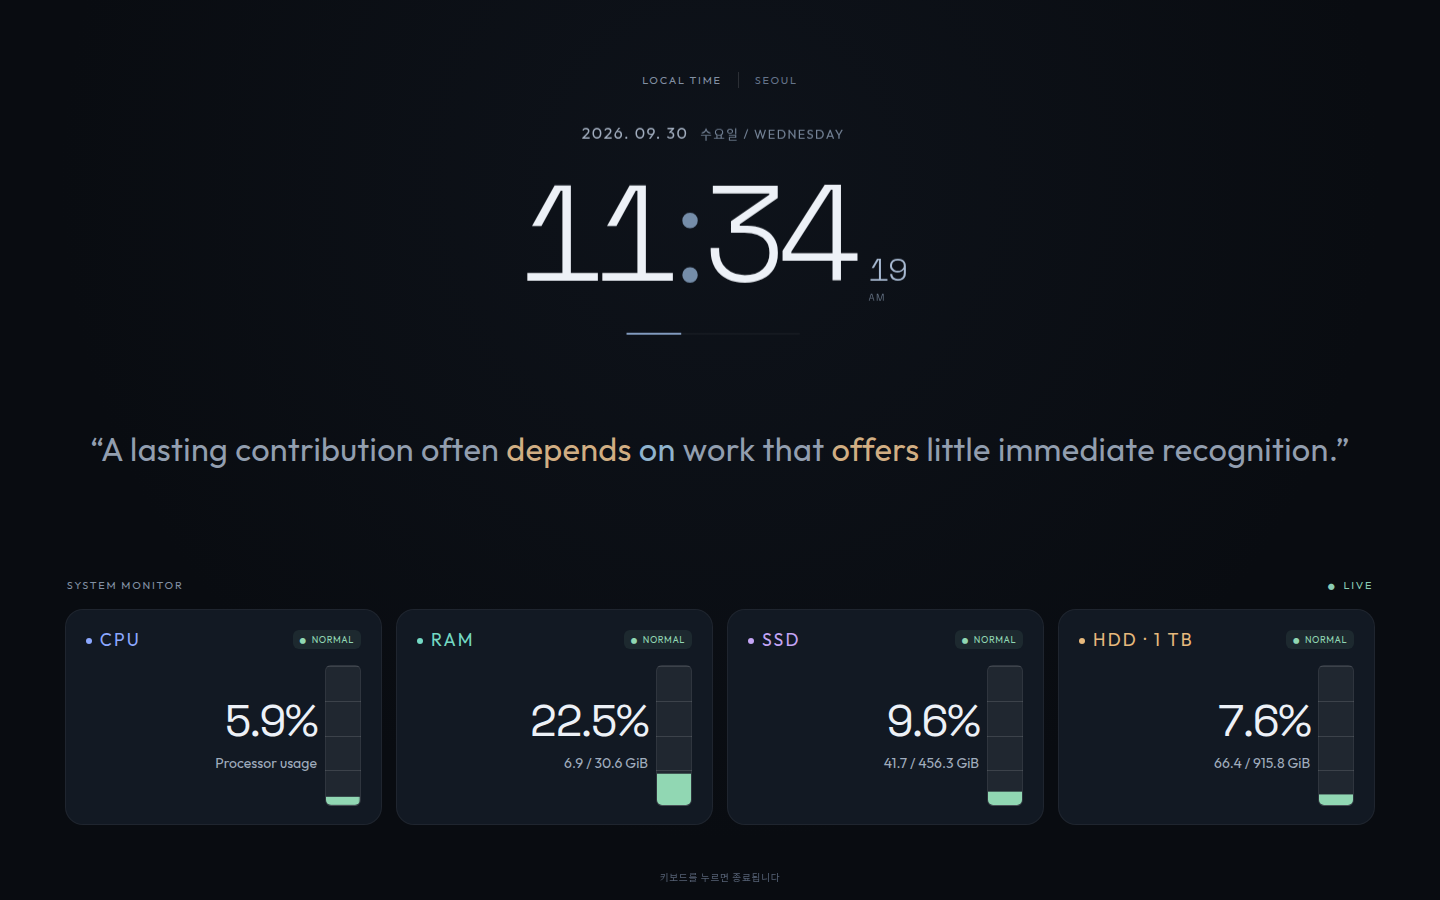
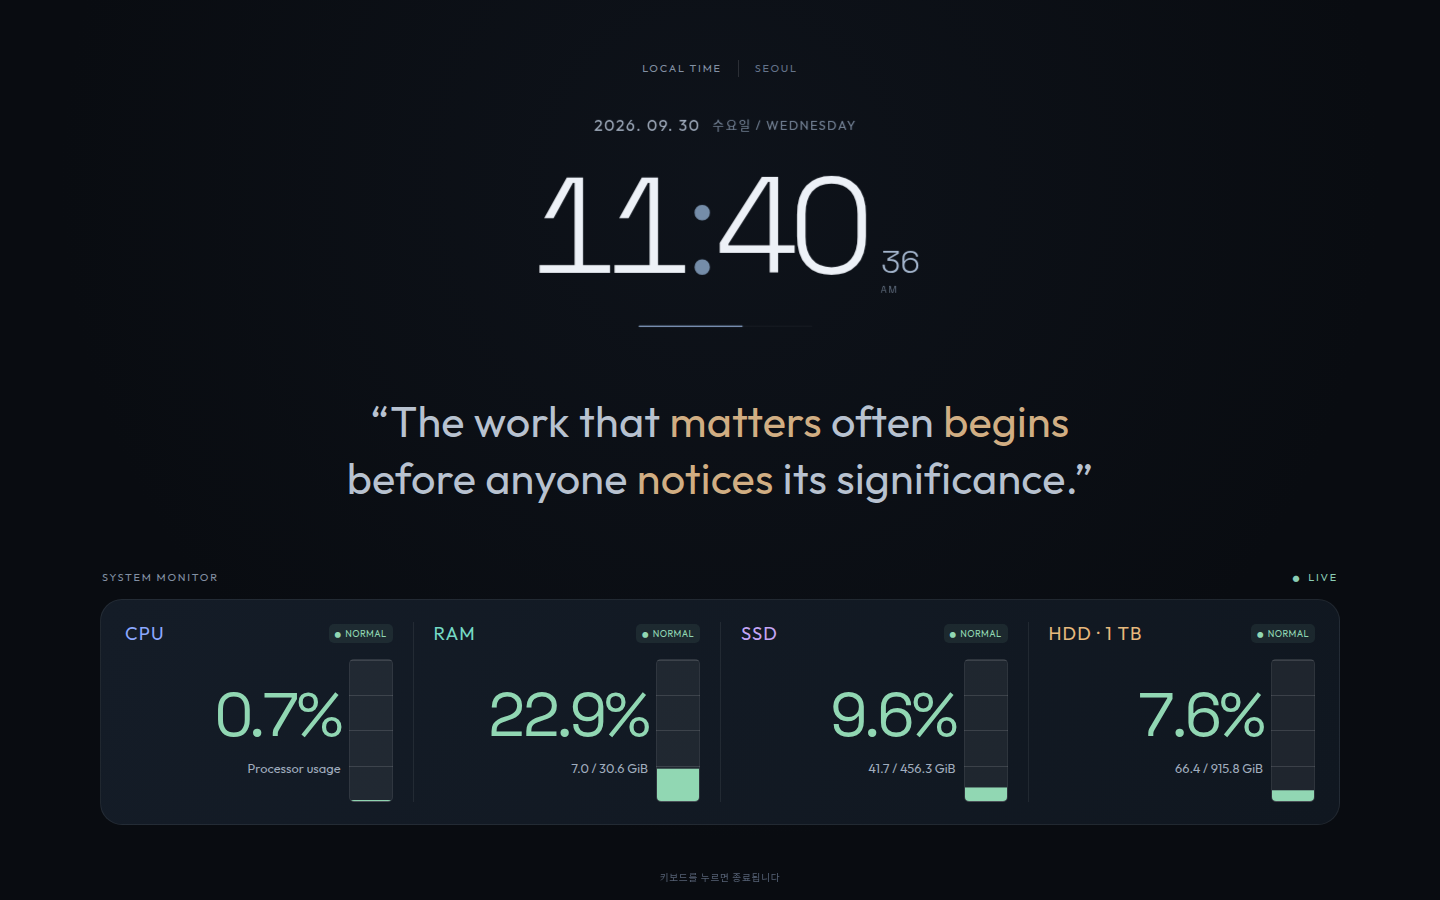
Redesign monitoring panel and balance quotes across two lines

diff --git a/src/style.css b/src/style.css
@@ -5,161 +5,144 @@ body {
   background: radial-gradient(ellipse at 50% 20%, #18202d55, transparent 65%), #090c11;
 }
 .screen-grid {
-  width: 100%; max-width: 1660px; height: 100%; margin: 0 auto;
+  width: 100%; max-width: 1600px; height: 100%; margin: 0 auto;
   display: grid; grid-template-rows: minmax(0, 1fr) auto minmax(0, 1fr);
-  gap: clamp(24px, 4vh, 48px);
-  padding: clamp(28px, 6vh, 72px) clamp(24px, 4.5vw, 76px) clamp(28px, 6vh, 72px);
+  gap: clamp(20px, 3vh, 36px);
+  padding: clamp(28px, 6vh, 72px) clamp(24px, 5vw, 80px);
 }
 .panel { min-width: 0; min-height: 0; }
 .panel-heading {
   display: flex; justify-content: space-between; align-items: center; gap: 12px;
-  color: #8290a3; font-size: 0.68rem; font-weight: 400;
-  letter-spacing: 0.16em; line-height: 1.5;
+  color: #8290a3; font-size: 0.68rem; font-weight: 400; letter-spacing: 0.16em; line-height: 1.5;
 }
 .panel-heading > :last-child { white-space: nowrap; color: #65748a; }
 .clock-panel { display: flex; flex-direction: column; justify-content: center; }
 .clock-panel .panel-heading { justify-content: center; gap: 16px; margin-bottom: 20px; }
 .clock-panel .panel-heading > :last-child { border-left: 1px solid #ffffff20; padding-left: 16px; }
-.clock-content {
-  min-width: 0; min-height: 0; padding: 18px 12px;
-  display: flex; justify-content: center; align-items: center; text-align: center;
-}
+.clock-content { min-width: 0; min-height: 0; padding: 18px 12px; display: flex; justify-content: center; align-items: center; text-align: center; }
 .clock-display { max-width: 100%; transition: transform 2.5s ease; }
 .date-row {
   display: flex; flex-wrap: wrap; justify-content: center; align-items: center; gap: 12px;
-  color: #a3afc0; font-size: clamp(0.75rem, 1.1vw, 1rem);
-  letter-spacing: 0.09em; margin-bottom: 24px;
+  color: #a3afc0; font-size: clamp(0.75rem, 1.1vw, 1rem); letter-spacing: 0.09em; margin-bottom: 24px;
 }
 .day-badge { color: #78879b; font-size: 0.8em; white-space: nowrap; }
 .time-row {
-  display: flex; justify-content: center; align-items: baseline;
-  font-family: 'Space Grotesk', monospace;
-  font-size: clamp(3.5rem, min(10vw, 15dvh), 8.5rem);
-  font-weight: 300; font-variant-numeric: tabular-nums;
+  display: flex; justify-content: center; align-items: baseline; font-family: 'Space Grotesk', monospace;
+  font-size: clamp(3.5rem, min(10vw, 15dvh), 8.5rem); font-weight: 300; font-variant-numeric: tabular-nums;
   line-height: 1; letter-spacing: -0.065em; white-space: nowrap;
 }
 .colon { margin: 0 0.04em; color: #758da9; }
-.seconds-wrap {
-  display: inline-flex; flex-direction: column; align-items: flex-start;
-  margin-left: 0.5em; font-size: 0.24em; color: #a8bad2; letter-spacing: -0.02em;
-}
+.seconds-wrap { display: inline-flex; flex-direction: column; align-items: flex-start; margin-left: 0.5em; font-size: 0.24em; color: #a8bad2; letter-spacing: -0.02em; }
 .ampm { font-size: 0.3em; margin-top: 0.7em; letter-spacing: 0.15em; color: #78879b; }
-.progress-bar-container {
-  width: min(220px, 45%); height: 2px; margin: 30px auto 0;
-  border-radius: 2px; overflow: hidden; background: #ffffff09;
-}
+.progress-bar-container { width: min(220px, 45%); height: 2px; margin: 30px auto 0; border-radius: 2px; overflow: hidden; background: #ffffff09; }
 .progress-bar { height: 100%; background: #829bbf; width: 0; transition: width 1s linear; }
-.monitor-panel { align-self: end; }
-.monitor-panel .panel-heading { margin: 0 2px 16px; }
-#liveLabel.live { color: #8acdb5; }
-#liveLabel.live::before { content: '●'; margin-right: 7px; font-size: 0.65em; }
-.resource-list { display: grid; grid-template-columns: repeat(4, minmax(0, 1fr)); gap: 14px; }
-.resource-card {
-  --severity: #91d7b3;
-  min-width: 0; display: grid; grid-template-columns: minmax(0, 1fr) 36px;
-  grid-template-rows: auto minmax(0, 1fr); align-items: center; gap: 14px 8px; height: clamp(196px, 24vh, 228px); padding: 18px 20px;
-  border: 1px solid #ffffff0e; border-radius: 18px; background: #121923;
-}
-.resource-card[data-level="warning"] { --severity: #edd08c; border-color: #edd08c35; }
-.resource-card[data-level="high"] { --severity: #efa3a3; border-color: #efa3a345; background: #21191e; }
-.resource-card[data-level="offline"] { --severity: #7a879b; }
-.resource-heading { grid-column: 1 / -1; grid-row: 1; display: flex; justify-content: space-between; align-items: center; gap: 8px; }
-.resource-readout { grid-column: 1; grid-row: 2; min-width: 0; text-align: right; }
-.resource-primary { display: flex; align-items: baseline; justify-content: flex-end; flex-wrap: wrap; gap: 8px; }
-.resource-label { color: #8ca8ff; font-size: 1.1rem; font-weight: 500; letter-spacing: 0.12em; white-space: nowrap; }
-.resource-label::before { content: ''; display: inline-block; width: 6px; height: 6px; margin-right: 8px; border-radius: 50%; background: currentColor; vertical-align: 2px; }
-.resource-ram .resource-label { color: #74d9c4; }
-.resource-disk .resource-label { color: #c4a5f5; }
-.resource-hdd .resource-label { color: #e7b97d; }
-.resource-value {
-  color: #edf1f7; font-family: 'Space Grotesk', monospace;
-  font-size: clamp(2rem, 3.2vw, 2.75rem); font-variant-numeric: tabular-nums;
-  line-height: 1.1; letter-spacing: -0.04em;
-}
-.resource-secondary { display: flex; flex-direction: column; align-items: flex-end; gap: 8px; margin-top: 8px; }
-.resource-detail { color: #a0adbe; font-size: 0.875rem; line-height: 1.5; white-space: nowrap; }
-.resource-level { color: var(--severity); font-size: 0.58rem; letter-spacing: 0.06em; white-space: nowrap; padding: 4px 7px; border-radius: 6px; background: color-mix(in srgb, var(--severity) 9%, transparent); }
-.resource-card:is([data-level="warning"], [data-level="high"]) .resource-value { color: var(--severity); }
-.resource-level::before { content: '●'; margin-right: 5px; font-size: 0.7em; }
-.resource-track {
-  grid-column: 2; grid-row: 2; width: 36px; height: 100%; border: 1px solid #ffffff12; border-radius: 6px; overflow: hidden;
-  background: repeating-linear-gradient(to top, transparent 0, transparent calc(25% - 1px), #ffffff20 calc(25% - 1px), #ffffff20 25%), #ffffff10;
-}
-.resource-fill {
-  height: 100%; width: 100%; background: var(--severity);
-  transform: scaleY(var(--usage, 0)); transform-origin: bottom; transition: transform 1s ease;
-}
-.resource-status { min-height: 1em; color: #98a5b7; font-size: 0.7rem; margin-top: 10px; }
-.guide-hint { position: fixed; bottom: 16px; left: 0; width: 100%; text-align: center; font-size: 0.6rem; letter-spacing: 0.08em; color: #566276; }
 .quote-content {
-  height: 80px; display: flex; align-items: center; justify-content: center;
-  padding: 8px 12px;
+  height: 144px; max-width: 1160px; margin: 0 auto; padding: 12px 24px;
+  display: flex; align-items: center; justify-content: center;
 }
-.quote { width: 100%; min-width: 0; color: #929eaf; text-align: center; font-size: clamp(1.2rem, 2.5vw, 2.4rem); font-weight: 400; line-height: 1.4; letter-spacing: 0.01em; }
+.quote { width: 100%; min-width: 0; color: #b8c2d0; text-align: center; font-size: clamp(1.6rem, 3vw, 2.8rem); font-weight: 400; line-height: 1.32; letter-spacing: 0.005em; }
 .quote-line { display: block; white-space: nowrap; overflow: hidden; text-overflow: ellipsis; }
 .quote-word { font-weight: 400; }
 .auxiliary { color: #9dc4a8; }
 .main-verb { color: #d1ae83; }
 .connector { color: #b1a3ce; }
 .preposition { color: #8fb3cd; }
+.monitor-panel { align-self: end; width: 100%; max-width: 1240px; margin: 0 auto; }
+.monitor-panel .panel-heading { margin: 0 2px 14px; }
+#liveLabel.live { color: #8acdb5; }
+#liveLabel.live::before { content: '●'; margin-right: 7px; font-size: 0.65em; }
+.resource-list {
+  display: grid; grid-template-columns: repeat(4, minmax(0, 1fr));
+  padding: 22px 4px; border: 1px solid #ffffff12; border-radius: 22px;
+  background: linear-gradient(120deg, #141c27, #101720);
+}
+.resource-card {
+  --severity: #91d7b3;
+  min-width: 0; display: grid; grid-template-columns: minmax(0, 1fr) 44px;
+  grid-template-rows: auto minmax(0, 1fr); align-items: center;
+  height: clamp(168px, 20vh, 184px); padding: 0 20px; gap: 14px 8px;
+}
+.resource-card + .resource-card { border-left: 1px solid #ffffff12; }
+.resource-card[data-level="warning"] { --severity: #edd08c; }
+.resource-card[data-level="high"] { --severity: #efa3a3; }
+.resource-card[data-level="offline"] { --severity: #7a879b; }
+.resource-heading { grid-column: 1 / -1; grid-row: 1; display: flex; justify-content: space-between; align-items: center; gap: 8px; }
+.resource-label { color: #8ca8ff; font-size: 1.15rem; font-weight: 500; letter-spacing: 0.06em; white-space: nowrap; }
+.resource-ram .resource-label { color: #74d9c4; }
+.resource-disk .resource-label { color: #c4a5f5; }
+.resource-hdd .resource-label { color: #e7b97d; }
+.resource-level { color: var(--severity); font-size: 0.58rem; letter-spacing: 0.04em; white-space: nowrap; padding: 4px 6px; border-radius: 5px; background: color-mix(in srgb, var(--severity) 9%, transparent); }
+.resource-level::before { content: '●'; margin-right: 4px; font-size: 0.7em; }
+.resource-readout { grid-column: 1; grid-row: 2; min-width: 0; text-align: right; }
+.resource-primary { display: flex; justify-content: flex-end; align-items: baseline; }
+.resource-value { color: var(--severity); font-family: 'Space Grotesk', monospace; font-size: clamp(2.4rem, 4.4vw, 3.8rem); font-variant-numeric: tabular-nums; line-height: 1.1; letter-spacing: -0.05em; }
+.resource-card:is([data-level="warning"], [data-level="high"]) .resource-value { color: var(--severity); }
+.resource-secondary { display: flex; flex-direction: column; align-items: flex-end; margin-top: 10px; }
+.resource-detail { color: #a0adbe; font-size: 0.8rem; line-height: 1.5; white-space: nowrap; }
+.resource-track {
+  grid-column: 2; grid-row: 2; width: 44px; height: 100%; border: 1px solid #ffffff12; border-radius: 5px; overflow: hidden;
+  background: repeating-linear-gradient(to top, transparent 0, transparent calc(25% - 1px), #ffffff20 calc(25% - 1px), #ffffff20 25%), #ffffff10;
+}
+.resource-fill { height: 100%; width: 100%; background: var(--severity); transform: scaleY(var(--usage, 0)); transform-origin: bottom; transition: transform 1s ease; }
+.resource-status { min-height: 1em; color: #98a5b7; font-size: 0.7rem; margin-top: 10px; }
+.guide-hint { position: fixed; bottom: 16px; left: 0; width: 100%; text-align: center; font-size: 0.6rem; letter-spacing: 0.08em; color: #566276; }
 @media (max-width: 1100px) {
-  .resource-card { padding: 20px 16px; gap: 12px 8px; grid-template-columns: minmax(0, 1fr) 24px; }
-  .resource-track { width: 24px; }
-  .resource-label { font-size: 0.9rem; letter-spacing: 0.06em; }
-  .resource-value { font-size: 1.8rem; }
-  .resource-detail { font-size: 0.72rem; }
+  .resource-card { padding: 0 16px; grid-template-columns: minmax(0, 1fr) 26px; gap: 16px 8px; }
+  .resource-track { width: 26px; }
+  .resource-label { font-size: 0.95rem; }
+  .resource-value { font-size: 2rem; }
+  .resource-detail { font-size: 0.7rem; }
 }
 @media (max-width: 900px) {
   .screen-grid { grid-template-rows: minmax(0, 1fr) auto auto; gap: 16px; padding: 24px 28px 44px; }
-  .resource-list { grid-template-columns: repeat(2, minmax(0, 1fr)); gap: 12px; }
-  .resource-card { height: clamp(132px, 19vh, 160px); padding: 12px 18px; row-gap: 8px; }
-  .resource-primary { flex-wrap: nowrap; }
-  .resource-secondary { gap: 6px; margin-top: 8px; }
-  .resource-detail { font-size: 0.8rem; }
   .clock-panel .panel-heading { display: none; }
-  .clock-content { padding: 8px 12px; }
-  .time-row { font-size: clamp(3.5rem, min(10vw, 10dvh), 8.5rem); }
-  .date-row { margin-bottom: 8px; font-size: 0.7rem; }
-  .progress-bar-container { margin-top: 10px; }
-  .quote-content { height: 56px; }
+  .clock-content { padding: 4px 12px; }
+  .time-row { font-size: clamp(2.5rem, min(10vw, 7dvh), 6rem); }
+  .date-row { margin-bottom: 6px; font-size: 0.7rem; }
+  .progress-bar-container { margin-top: 8px; }
+  .quote-content { height: 104px; padding: 10px 16px; }
+  .quote { font-size: clamp(1.2rem, 3.5vw, 2rem); }
+  .resource-list { grid-template-columns: repeat(2, minmax(0, 1fr)); padding: 0; }
+  .resource-card { height: 128px; padding: 14px 18px; gap: 10px 8px; }
+  .resource-card:nth-child(odd) { border-left: 0; }
+  .resource-card:nth-child(n+3) { border-top: 1px solid #ffffff12; }
+  .resource-value { font-size: 2rem; }
+  .resource-secondary { margin-top: 6px; }
 }
 @media (max-width: 480px) {
   .screen-grid { padding-left: 20px; padding-right: 20px; }
-  .resource-card { gap: 10px 6px; padding: 16px 12px; border-radius: 14px; grid-template-columns: minmax(0, 1fr) 18px; }
-  .resource-track { width: 18px; border-radius: 4px; }
-  .resource-primary { gap: 5px; flex-wrap: wrap; }
+  .resource-card { padding: 12px; grid-template-columns: minmax(0, 1fr) 18px; gap: 10px 6px; }
+  .resource-track { width: 18px; }
   .resource-heading { gap: 4px; }
-  .resource-label { font-size: 0.8rem; letter-spacing: 0.04em; }
-  .resource-label::before { width: 4px; height: 4px; margin-right: 5px; vertical-align: 1px; }
-  .resource-level { padding: 3px 5px; font-size: 0.5rem; }
+  .resource-label { font-size: 0.8rem; letter-spacing: 0.03em; }
+  .resource-level { font-size: 0.5rem; padding: 3px 4px; }
   .resource-level::before { margin-right: 3px; }
-  .resource-value { font-size: 1.5rem; }
+  .resource-value { font-size: 1.6rem; }
   .resource-detail { font-size: 0.65rem; }
   .date-row { gap: 8px; letter-spacing: 0.04em; }
 }
 @media (max-height: 520px) {
   .screen-grid { grid-template-rows: minmax(0, 1fr) auto auto; gap: 8px; padding: 16px 28px 30px; }
   .clock-panel .panel-heading { display: none; }
-  .clock-content { padding: 12px; }
-  .time-row { font-size: clamp(3rem, min(10vw, 16dvh), 5rem); }
-  .date-row { margin-bottom: 8px; font-size: 0.7rem; }
-  .progress-bar-container { margin-top: 12px; }
+  .clock-content { padding: 4px 12px; }
+  .time-row { font-size: clamp(2rem, min(10vw, 11dvh), 5rem); }
+  .date-row { margin-bottom: 6px; font-size: 0.7rem; }
+  .progress-bar-container { margin-top: 8px; }
+  .quote-content { height: 64px; padding: 4px 16px; }
   .monitor-panel .panel-heading { margin-bottom: 8px; font-size: 0.6rem; }
-  .resource-list { grid-template-columns: repeat(4, minmax(0, 1fr)); gap: 8px; }
-  .resource-card { height: 112px; padding: 10px; gap: 4px 6px; grid-template-columns: minmax(0, 1fr) 18px; }
-  .resource-track { width: 18px; border-radius: 4px; }
-  .resource-primary { flex-wrap: wrap; gap: 4px; }
-  .resource-value { font-size: 1.35rem; }
-  .resource-label, .resource-detail { font-size: 0.55rem; }
-  .resource-secondary { gap: 4px; margin-top: 6px; }
+  .resource-list { grid-template-columns: repeat(4, minmax(0, 1fr)); padding: 0; border-radius: 14px; }
+  .resource-card { height: 114px; padding: 10px; gap: 6px; grid-template-columns: minmax(0, 1fr) 18px; }
+  .resource-card:nth-child(odd) { border-left: 1px solid #ffffff12; }
+  .resource-card:first-child { border-left: 0; }
+  .resource-card:nth-child(n+3) { border-top: 0; }
+  .resource-track { width: 18px; }
   .resource-heading { gap: 4px; }
-  .resource-label { letter-spacing: 0.04em; }
-  .resource-label::before { width: 4px; height: 4px; margin-right: 5px; vertical-align: 1px; }
-  .resource-level { font-size: 0.5rem; padding: 3px 5px; }
+  .resource-label { font-size: 0.6rem; letter-spacing: 0.03em; }
+  .resource-level { font-size: 0.45rem; padding: 3px 4px; }
   .resource-level::before { margin-right: 3px; }
-  .quote-content { height: 32px; padding-top: 4px; padding-bottom: 4px; }
+  .resource-value { font-size: 1.35rem; }
+  .resource-detail { font-size: 0.55rem; }
+  .resource-secondary { margin-top: 6px; }
   .guide-hint { bottom: 8px; }
 }
-@media (prefers-reduced-motion: reduce) {
-  .clock-display, .progress-bar, .resource-fill { transition: none; }
-}
+@media (prefers-reduced-motion: reduce) { .clock-display, .progress-bar, .resource-fill { transition: none; } }

diff --git a/src/quotes.ts b/src/quotes.ts
@@ -44,14 +44,39 @@ function fitQuote(element: HTMLElement) {
   }
 }
 
+function quoteSplit(text: string) {
+  const words = text.match(/\S+\s*/g) ?? [];
+  const awkwardEnd = new Set(['a', 'an', 'the', 'of', 'to', 'with', 'in', 'on', 'for', 'and', 'or', 'your', 'their', ...modals, ...helpers]);
+  let best = 0;
+  let bestScore = Infinity;
+  for (let cut = 4; cut <= words.length - 4; cut++) {
+    const first = words.slice(0, cut).join('');
+    const second = words.slice(cut).join('');
+    let score = (first.trim().length - second.trim().length) ** 2;
+    if (/[,;:]$/.test(first.trim())) score -= 80;
+    if (awkwardEnd.has(first.trim().split(/\s+/).at(-1)!.toLowerCase())) score += 180;
+    if (score < bestScore) {
+      bestScore = score;
+      best = first.length;
+    }
+  }
+  return best;
+}
+
 function renderQuote(element: HTMLElement, text: string, verbs: string) {
   const fragment = document.createDocumentFragment();
   const forms = new Set(verbs.split(' '));
   const tokens = text.match(/[A-Za-z]+(?:'[A-Za-z]+)?|[^A-Za-z]+/g) ?? [];
-  const line = document.createElement('span');
-  line.className = 'quote-line';
-  fragment.append(line);
+  const split = quoteSplit(text);
+  const lines = Array.from({ length: 2 }, () => {
+    const line = document.createElement('span');
+    line.className = 'quote-line';
+    fragment.append(line);
+    return line;
+  });
+  let offset = 0;
   for (const [index, token] of tokens.entries()) {
+    const line = lines[offset >= split ? 1 : 0];
     const word = token.toLowerCase();
     let kind = '';
     if (forms.has(word)) kind = isAuxiliary(word, index, tokens, forms) ? 'auxiliary' : 'main-verb';
@@ -65,6 +90,7 @@ function renderQuote(element: HTMLElement, text: string, verbs: string) {
     } else {
       line.append(document.createTextNode(token));
     }
+    offset += token.length;
   }
   element.title = text;
   element.replaceChildren(fragment);

diff --git a/README.md b/README.md
@@ -1,6 +1,6 @@
 # ubuntu-scr-saver
 
-A modern Ubuntu screensaver with a balanced clock, a subtle single-line English
+A modern Ubuntu screensaver with a balanced clock, a balanced two-line English
 reflection, and a compact live resource dashboard. Built with Vite 8.3.1, TypeScript 7.0.2, and a Python standard-library
 resource server.
 
@@ -24,9 +24,9 @@ Versions are fixed for reproducibility; rerun `npm view vite version` and
 
 ![Screensaver preview](docs/preview.png)
 
-A moderately sized clock occupies the upper area, with a readable single-line
-English reflection in the center. Four resource cards sit below in one row,
-switching to a two-by-two grid on narrower displays. The dark layout uses
+A moderately sized clock occupies the upper area, with a larger two-line
+English reflection in the center. The lower monitoring panel groups four resource
+cells in one row, switching to a two-by-two grid on narrower displays. The dark layout uses
 restrained accents and generous margins.
 
 ## Install
@@ -57,15 +57,16 @@ After moving an installed folder, run `./install.sh` again to update paths.
 - One wide, high-contrast vertical usage gauge per resource, with quarter-scale marks.
 - Readings update smoothly without clearing the previous values.
 - Larger colored CPU, RAM, SSD, and HDD labels sit at the top, beside a compact status badge.
-- Taller resource cards have wide gauges on the right, just 8 pixels from the
-  right-aligned percentages. Capacity details sit directly below each percentage.
-- Green indicates normal usage, amber watch, and red high usage; labels accompany colors.
+- A unified monitoring panel uses four aligned cells with subtle dividers.
+- Wide gauges sit directly beside right-aligned percentages. Capacity details sit directly below each percentage.
+- Both percentages and gauges use green for normal usage, amber for watch, and
+  red for high usage; status labels accompany the colors.
 - Watch/high defaults: CPU 60/85%, RAM 75/90%, both disks 80/90%.
 - Resource readings refresh three seconds after each completed request.
 - Memory usage excludes available memory; disk percentages match `df`.
 - A disconnected HDD shows as unavailable instead of reporting the root disk.
 - Balanced clock with date, seconds, and AM/PM; subtle position shifts.
-- A centered one-line English reflection with larger adaptive text, randomly
+- A centered two-line English reflection with larger adaptive text, randomly
   rotated every ten minutes.
 - 120 shorter original passages, shuffled without repeats within each cycle.
 - Subtle pastel highlights for auxiliary verbs, main verbs, conjunctions, and prepositions.
@@ -75,7 +76,7 @@ After moving an installed folder, run `./install.sh` again to update paths.
 The active compact library is `src/compact-quote-library.ts`; the earlier long
 reflections remain in `src/quote-library.ts` for later use. The quote sequence
 and rotation deadline persist across launches. Reflections
-use adaptive sizing to stay on one line; very narrow displays truncate overflow
+use balanced word-boundary breaks and adaptive sizing to stay on two lines; very narrow displays truncate overflow
 with an ellipsis and retain the full passage in the tooltip.
 
 Resource readings work locally. Google Fonts load when available; system fonts
